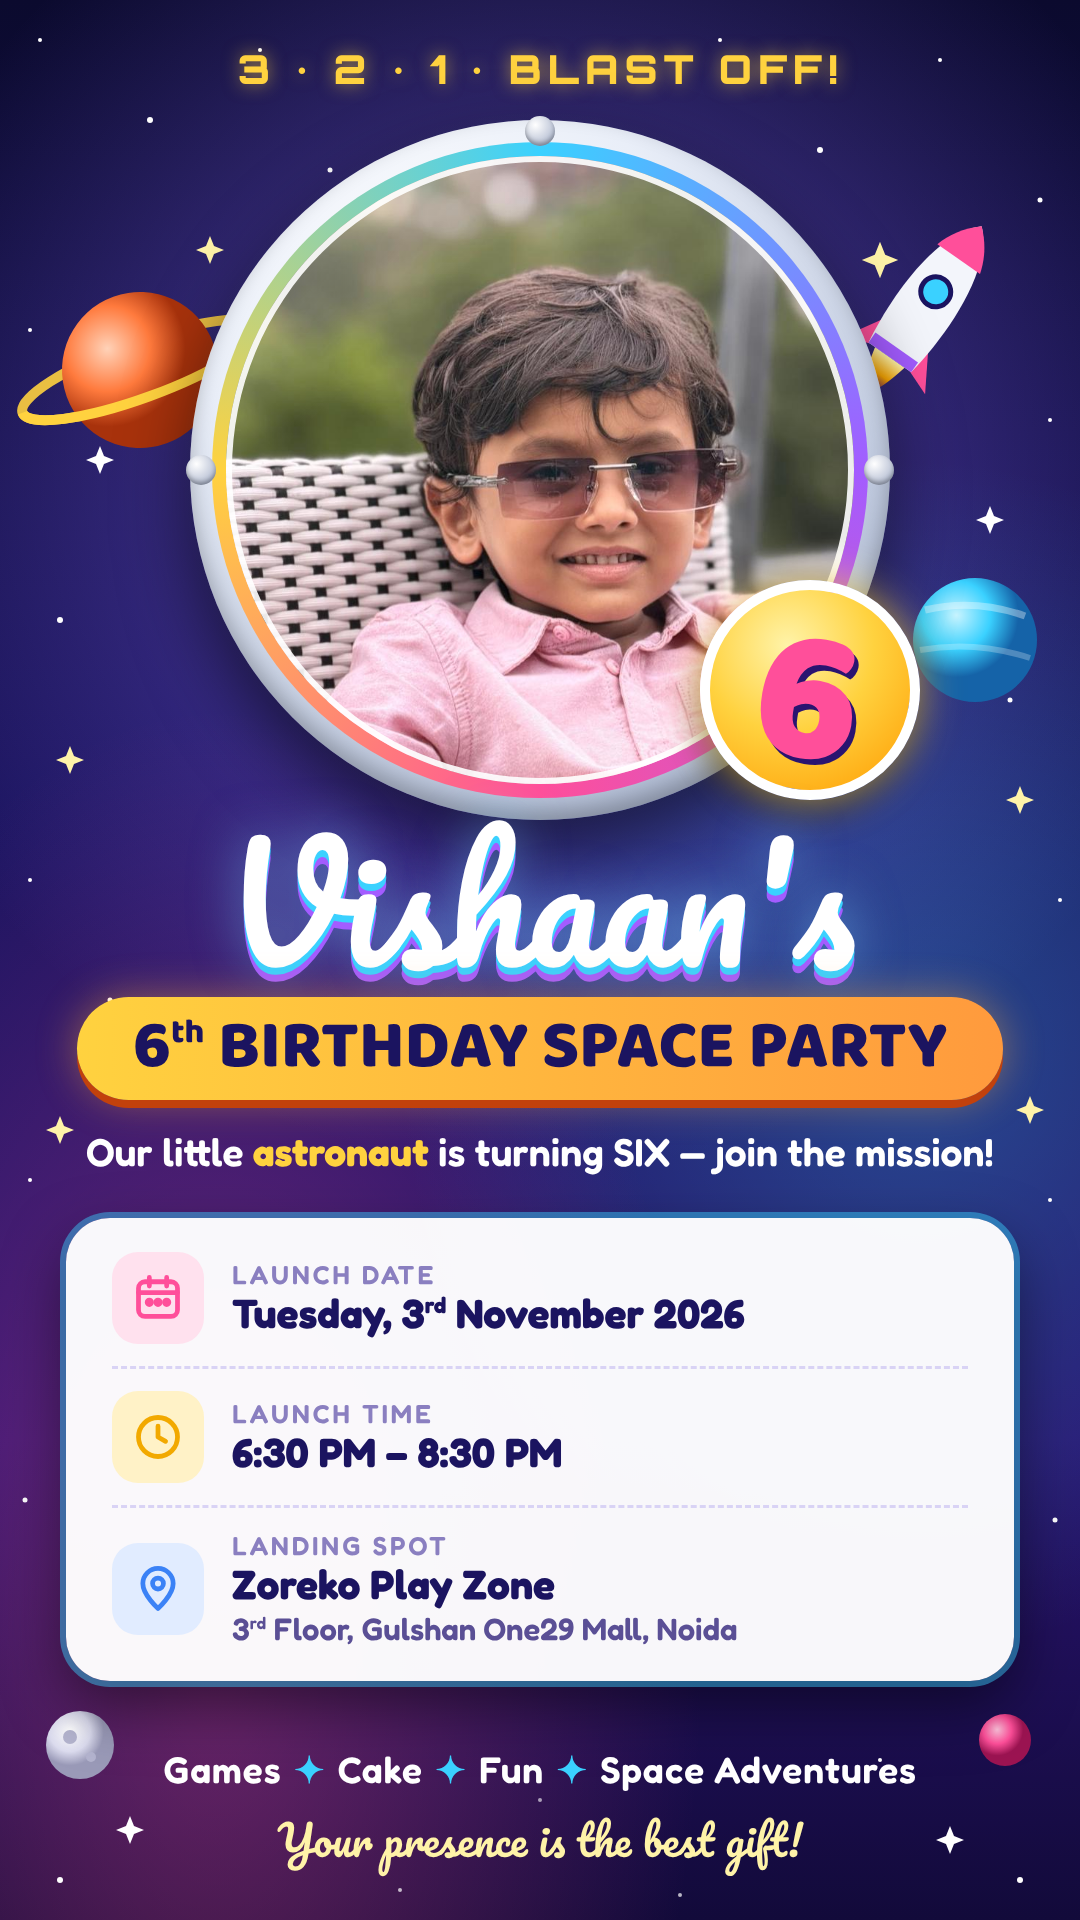
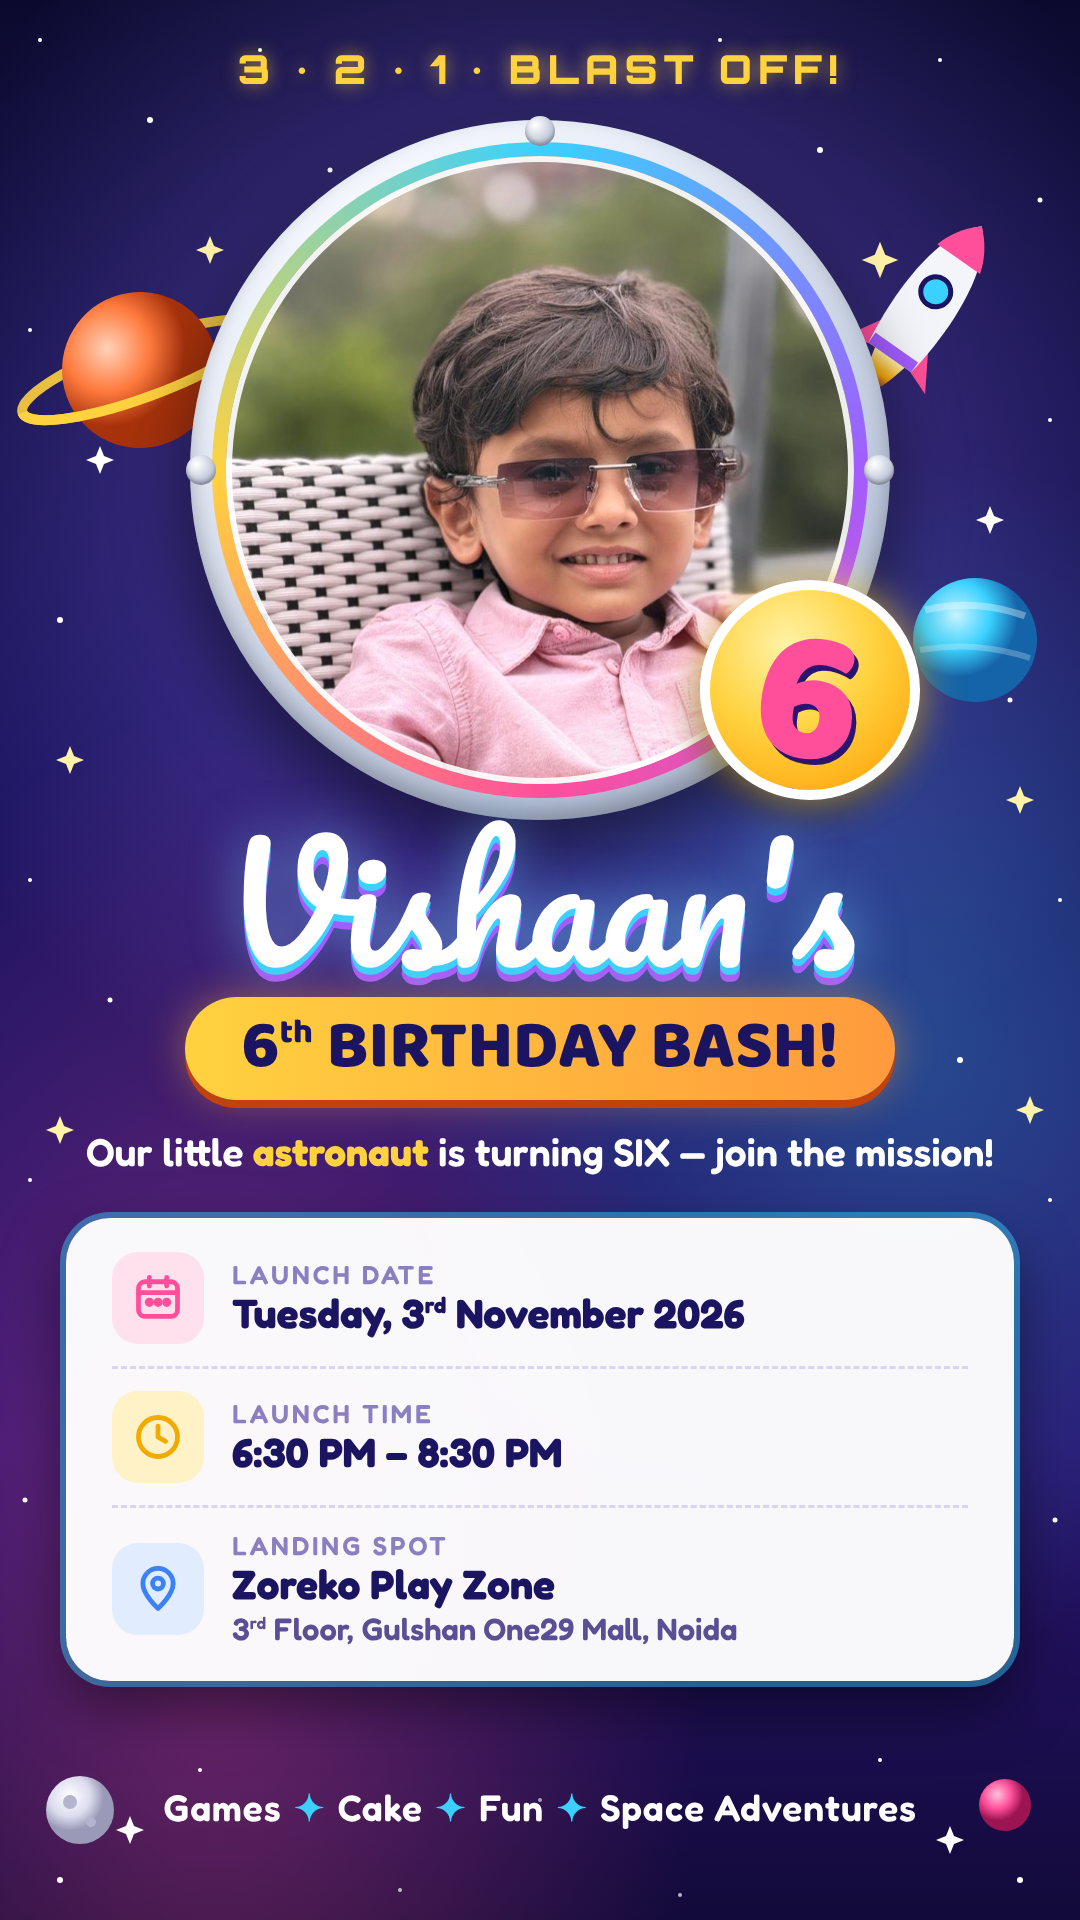
Vishaan invite: Birthday Bash title, drop closing line
Claude-Session: https://claude.ai/code/session_01TUFe61nJr8jrfSQs2VVnqs

diff --git a/invites/vishaan-6th-birthday/invite.html b/invites/vishaan-6th-birthday/invite.html
@@ -59,7 +59,7 @@
   .v{font-size:41px;font-weight:700;color:#1b1460;line-height:1.15}
   .v sup,.sub sup{font-size:.55em}
   .sub{font-size:31px;font-weight:600;color:#5a4f95;margin-top:2px}
-  .foot{position:absolute;bottom:44px;width:100%;text-align:center;color:#fff}
+  .foot{position:absolute;bottom:90px;width:100%;text-align:center;color:#fff}
   .foot .fun{font-size:37px;font-weight:600;letter-spacing:1px}
   .foot .fun b{color:#3ad1ff;margin:0 12px}
   .foot .love{margin-top:10px;font-family:'Pacifico';font-size:42px;color:#fff3a8}
@@ -107,10 +107,10 @@
     <path d="M925 610 q50 -12 100 6" stroke="#ffffff" stroke-opacity=".35" stroke-width="7" fill="none"/>
     <path d="M920 650 q55 -10 110 8" stroke="#ffffff" stroke-opacity=".25" stroke-width="6" fill="none"/>
     <!-- moon left -->
-    <circle cx="80" cy="1745" r="34" fill="url(#moon)"/>
-    <circle cx="70" cy="1737" r="7" fill="#b4b4cf"/><circle cx="91" cy="1757" r="5" fill="#b4b4cf"/>
+    <circle cx="80" cy="1810" r="34" fill="url(#moon)"/>
+    <circle cx="70" cy="1802" r="7" fill="#b4b4cf"/><circle cx="91" cy="1822" r="5" fill="#b4b4cf"/>
     <!-- small pink planet -->
-    <circle cx="1005" cy="1740" r="26" fill="url(#pl3)"/>
+    <circle cx="1005" cy="1805" r="26" fill="url(#pl3)"/>
 
     <!-- rocket top-right -->
     <g transform="translate(930 300) rotate(35)">
@@ -141,7 +141,7 @@
 
   <div class="name">
     <h1>Vishaan's</h1>
-    <div class="banner">6<sup style="font-size:.5em">th</sup> BIRTHDAY SPACE PARTY</div>
+    <div class="banner">6<sup style="font-size:.5em">th</sup> BIRTHDAY BASH!</div>
     <div class="tag">Our little <b>astronaut</b> is turning SIX — join the mission!</div>
   </div>
 
@@ -168,7 +168,6 @@
 
   <div class="foot">
     <div class="fun">Games<b>✦</b>Cake<b>✦</b>Fun<b>✦</b>Space Adventures</div>
-    <div class="love">Your presence is the best gift!</div>
   </div>
 </div>
 </body>
